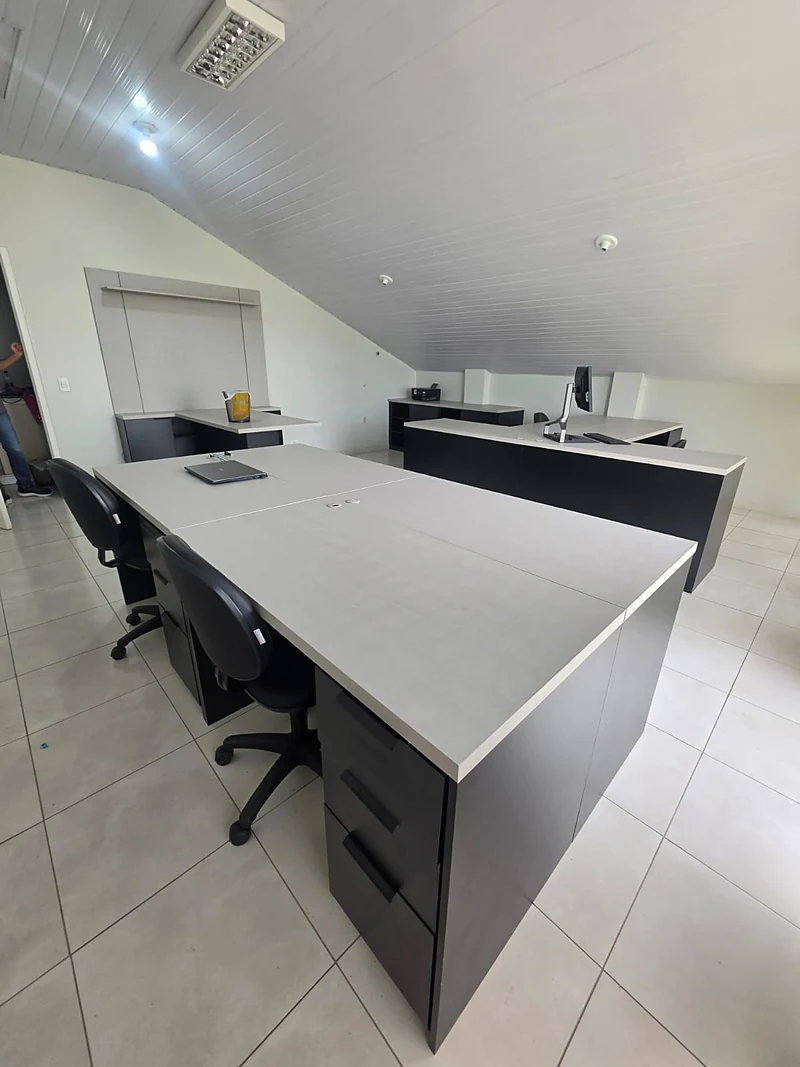
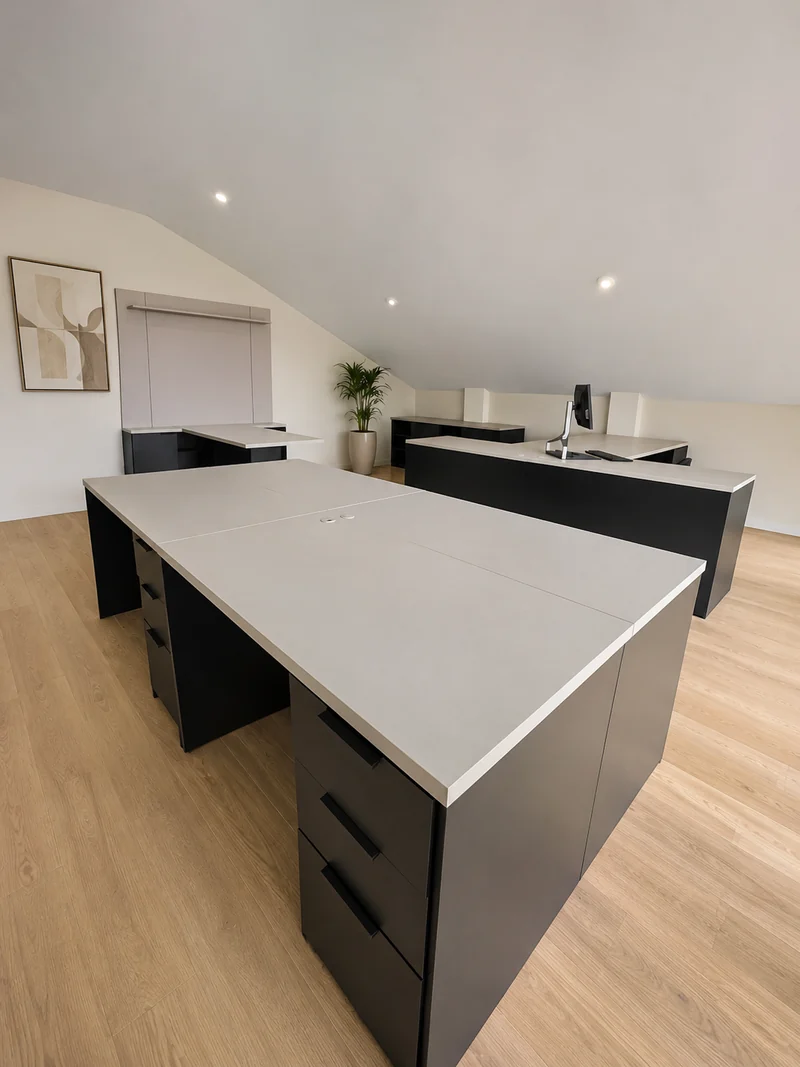
Ambiente de desenvolvimento: imagens com tratamento profundo e página de aprovação
Cozinha (S05 v4) e escritório (S04 v4) no hero e nos cards. Página /aprovacao com antes e depois. Branch sem indexação.

Claude-Session: https://claude.ai/code/session_016FNp9e1T7n34uC6gE7iCuo

diff --git a/public/aprovacao/index.html b/public/aprovacao/index.html
@@ -1,0 +1,97 @@
+<!DOCTYPE html>
+<html lang="pt-BR">
+<head>
+<meta charset="utf-8">
+<meta name="viewport" content="width=device-width, initial-scale=1">
+<meta name="robots" content="noindex, nofollow">
+<title>Aprovação das imagens | Movetá Móveis Planejados</title>
+<link rel="icon" href="/assets/favicon-moveta.png">
+<link rel="preconnect" href="https://fonts.googleapis.com">
+<link rel="preconnect" href="https://fonts.gstatic.com" crossorigin>
+<link href="https://fonts.googleapis.com/css2?family=Marcellus&family=Montserrat:wght@400;500;600&display=swap" rel="stylesheet">
+<style>
+  :root { --carvao:#211D1A; --ouro:#C9A24B; --bronze:#7A5F24; --prata:#D8D5D0; --areia:#EDE7DB; --creme:#F7F4EE; --pedra:#6B6560; }
+  * { box-sizing: border-box; }
+  body { margin:0; background:var(--creme); color:var(--carvao); font-family:Montserrat, system-ui, sans-serif; line-height:1.55; }
+  header { background:var(--carvao); padding:22px 20px; text-align:center; }
+  header img { height:54px; }
+  main { max-width:1080px; margin:0 auto; padding:36px 20px 64px; }
+  h1 { font-family:Marcellus, serif; font-weight:400; font-size:clamp(28px,4vw,40px); margin:0 0 10px; }
+  .intro { color:var(--pedra); max-width:720px; margin:0 0 34px; }
+  .card { background:#fff; border:1px solid var(--prata); border-radius:14px; padding:22px; margin-bottom:34px; }
+  .card h2 { font-family:Marcellus, serif; font-weight:400; font-size:24px; margin:0 0 4px; }
+  .card .num { color:var(--bronze); font-weight:600; font-size:13px; letter-spacing:.08em; text-transform:uppercase; }
+  .card ul { margin:10px 0 18px; padding-left:18px; color:var(--pedra); }
+  .cmp { position:relative; overflow:hidden; border-radius:10px; user-select:none; touch-action:pan-y; background:var(--areia); }
+  .cmp img { display:block; width:100%; height:auto; }
+  .cmp .depois { position:absolute; inset:0; clip-path:inset(0 0 0 50%); }
+  .cmp .depois img { width:100%; height:100%; object-fit:cover; }
+  .cmp .linha { position:absolute; top:0; bottom:0; left:50%; width:3px; background:#fff; transform:translateX(-50%); box-shadow:0 0 0 1px rgba(0,0,0,.15); pointer-events:none; }
+  .cmp .linha::after { content:"\2194"; position:absolute; top:50%; left:50%; transform:translate(-50%,-50%); width:38px; height:38px; border-radius:50%; background:var(--ouro); color:var(--carvao); display:grid; place-items:center; font-size:18px; font-weight:600; }
+  .tag { position:absolute; top:12px; padding:4px 10px; border-radius:20px; font-size:12px; font-weight:600; background:rgba(33,29,26,.78); color:#fff; pointer-events:none; }
+  .tag.a { left:12px; } .tag.d { right:12px; background:rgba(201,162,75,.95); color:var(--carvao); }
+  input[type=range] { width:100%; margin-top:12px; accent-color:var(--bronze); }
+  .retrato { max-width:560px; margin:0 auto; }
+  .site { display:inline-block; margin-top:6px; color:var(--bronze); font-weight:600; }
+  footer { text-align:center; color:var(--pedra); font-size:13px; padding:0 20px 40px; }
+</style>
+</head>
+<body>
+<header><img src="/assets/logo-moveta.png" alt="Movetá Móveis Planejados"></header>
+<main>
+  <h1>Aprovação das imagens do site</h1>
+  <p class="intro">Estas são as fotos reais das obras de vocês, tratadas para o site. Os móveis são exatamente os que vocês entregaram: mesmas portas, gavetas, puxadores, cores e acabamentos. O que mudou foi o ambiente em volta, para a foto ter cara de projeto completo. Arrastem a barra de cada imagem para comparar o antes e o depois.</p>
+
+  <section class="card">
+    <div class="num">Imagem 1</div>
+    <h2>Cozinha</h2>
+    <ul>
+      <li>Cortina de linho cobrindo a janela inteira no lugar da cortina de renda</li>
+      <li>Parede em porcelanato claro efeito mármore no lugar do azulejo antigo</li>
+      <li>Torneira gourmet preta e bancada livre, sem o purificador</li>
+      <li>Marca d'água do celular removida</li>
+    </ul>
+    <div class="cmp" data-cmp>
+      <img src="cozinha-antes.webp" alt="Cozinha antes do tratamento">
+      <div class="depois"><img src="cozinha-depois.webp" alt="Cozinha depois do tratamento"></div>
+      <div class="linha"></div><span class="tag a">Antes</span><span class="tag d">Depois</span>
+    </div>
+    <input type="range" min="0" max="100" value="50" aria-label="Comparar antes e depois da cozinha">
+  </section>
+
+  <section class="card">
+    <div class="num">Imagem 2</div>
+    <h2>Escritório com teto inclinado</h2>
+    <ul>
+      <li>Piso de madeira clara no lugar do piso cerâmico</li>
+      <li>Teto branco com spots embutidos no lugar da luminária antiga</li>
+      <li>Ambiente limpo: sem cadeiras, objetos soltos e porta aberta, com quadro e planta</li>
+    </ul>
+    <div class="retrato">
+      <div class="cmp" data-cmp>
+        <img src="escritorio-antes.webp" alt="Escritório antes do tratamento">
+        <div class="depois"><img src="escritorio-depois.webp" alt="Escritório depois do tratamento"></div>
+        <div class="linha"></div><span class="tag a">Antes</span><span class="tag d">Depois</span>
+      </div>
+      <input type="range" min="0" max="100" value="50" aria-label="Comparar antes e depois do escritório">
+    </div>
+  </section>
+
+  <p>Para ver as imagens já aplicadas no site, no topo e nos cards de cozinha e de escritório: <a class="site" href="/">abrir a versão de teste do site</a></p>
+</main>
+<footer>Link provisório, só para aprovação. Não é o site no ar.</footer>
+<script>
+  document.querySelectorAll('[data-cmp]').forEach(function (cmp) {
+    var range = cmp.parentElement.querySelector('input[type=range]');
+    var depois = cmp.querySelector('.depois'), linha = cmp.querySelector('.linha');
+    function set(v) { depois.style.clipPath = 'inset(0 0 0 ' + v + '%)'; linha.style.left = v + '%'; range.value = v; }
+    range.addEventListener('input', function () { set(range.value); });
+    function mover(x) { var r = cmp.getBoundingClientRect(); set(Math.max(0, Math.min(100, (x - r.left) / r.width * 100))); }
+    var ativo = false;
+    cmp.addEventListener('pointerdown', function (e) { ativo = true; mover(e.clientX); });
+    window.addEventListener('pointermove', function (e) { if (ativo) mover(e.clientX); });
+    window.addEventListener('pointerup', function () { ativo = false; });
+  });
+</script>
+</body>
+</html>

diff --git a/public/index.html b/public/index.html
@@ -56,7 +56,7 @@
          canonical aqui aponta para um endereco diferente do que o visitante
          acessou e o Google trata como duas paginas. -->
     <link rel="canonical" href="https://movetaplanejados.com.br/">
-    <meta name="robots" content="index, follow, max-image-preview:large">
+    <meta name="robots" content="noindex, nofollow">
     <meta name="author" content="Movetá Móveis Planejados">
     <meta name="geo.region" content="BR-PR">
     <meta name="geo.placename" content="Curitiba">
